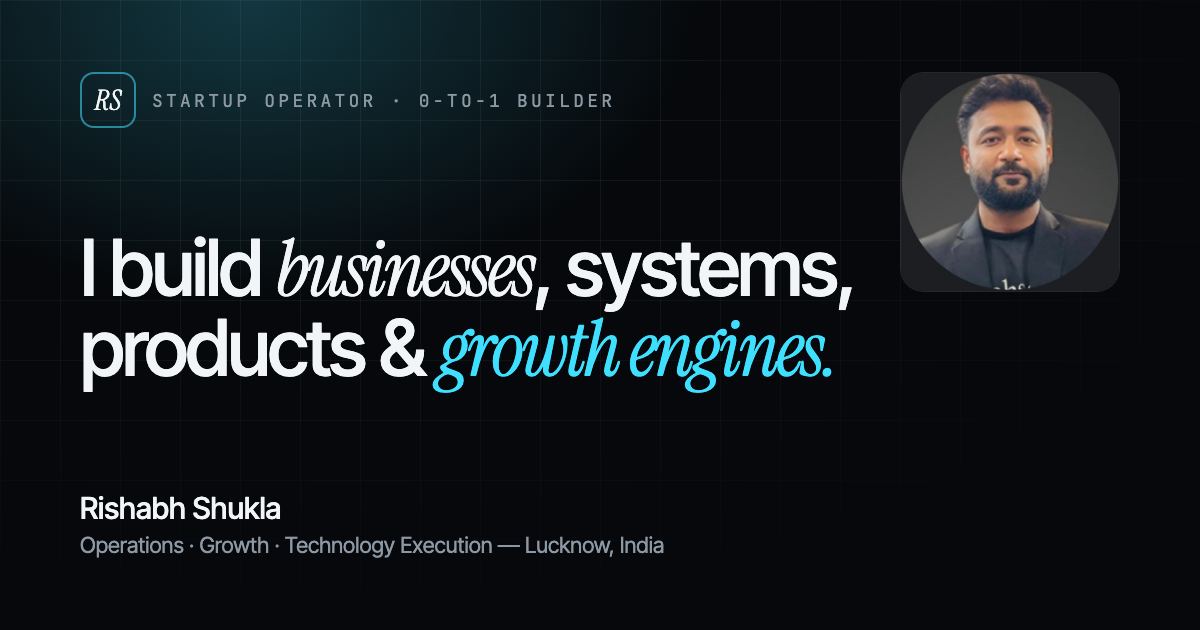
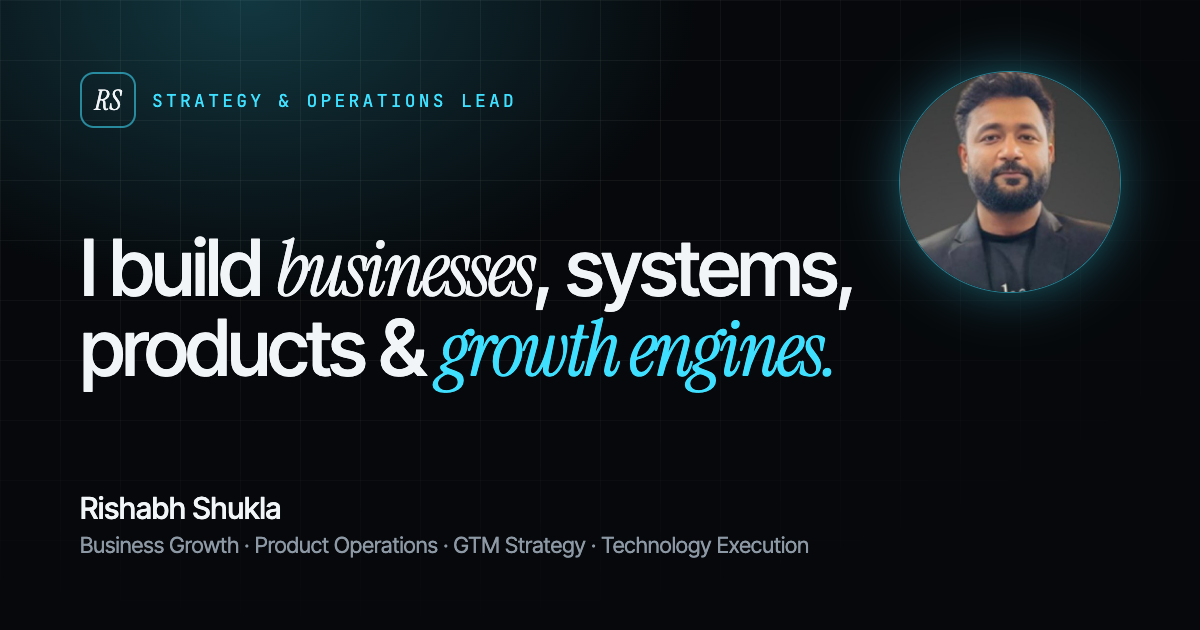
Reposition as Strategy & Operations Lead; simplify hero and About
Hero keeps only name, designation, headline, a two-line intro, focus
areas, CTAs and the portrait card. About is cut to three short
paragraphs, focus areas, education and four How I Think & Work cards.
The portrait is a shared component used in the hero and contact. OG
image regenerated from scripts/og.html.

diff --git a/src/components/Hero.tsx b/src/components/Hero.tsx
@@ -1,92 +1,65 @@
 "use client";
 
-import Image from "next/image";
 import { motion } from "framer-motion";
 import { ArrowDown, Download, MapPin } from "lucide-react";
 import { asset, site } from "@/lib/site";
 import { GitHubIcon, LinkedInIcon } from "./icons";
+import { Portrait } from "./Portrait";
 
 const ease = [0.22, 1, 0.36, 1] as const;
 
-const facts = [
-  { value: "0 → 1", label: "Led MechServi from concept to live operations" },
-  { value: "3+ yrs", label: "Running startup operations and growth" },
-  { value: "6", label: "Sectors consulted, from automotive to education" },
-  { value: "1.94×", label: "ROAS on an e-commerce catalogue campaign" },
-];
+const fadeUp = (delay: number) => ({
+  initial: { opacity: 0, y: 18 },
+  animate: { opacity: 1, y: 0 },
+  transition: { duration: 0.8, delay, ease },
+});
 
 export function Hero() {
   return (
-    <section id="home" className="noise relative overflow-hidden pt-28 md:pt-36">
+    <section id="home" className="noise relative flex min-h-[100svh] items-center overflow-hidden pb-20 pt-28 md:pt-32">
       <div className="bg-grid pointer-events-none absolute inset-0" aria-hidden />
       <div className="glow-cyan pointer-events-none absolute -top-40 left-1/2 h-[640px] w-[900px] -translate-x-1/2" aria-hidden />
 
-      <div className="relative mx-auto grid max-w-7xl gap-14 px-5 md:px-8 lg:grid-cols-[1.35fr_0.65fr] lg:items-end">
+      <div className="relative mx-auto grid w-full max-w-7xl items-center gap-14 px-5 md:px-8 lg:grid-cols-[1.25fr_0.75fr] lg:gap-20">
         <div>
           <motion.p
-            initial={{ opacity: 0, y: 12 }}
-            animate={{ opacity: 1, y: 0 }}
-            transition={{ duration: 0.6, ease }}
-            className="inline-flex items-center gap-2 rounded-full border border-line bg-white/[0.03] px-3 py-1.5 font-mono text-[11px] uppercase tracking-[0.18em] text-muted"
+            {...fadeUp(0)}
+            className="inline-flex items-center gap-2 rounded-full border border-line bg-white/[0.03] px-3 py-1.5 font-mono text-[11px] uppercase tracking-[0.16em] text-muted"
           >
             <span className="relative flex size-2">
               <span className="absolute inline-flex size-full animate-ping rounded-full bg-live opacity-60" />
               <span className="relative inline-flex size-2 rounded-full bg-live" />
             </span>
-            Open to Founder&apos;s Office, Ops &amp; Growth roles
+            Open to Strategy &amp; Operations roles
           </motion.p>
 
-          <motion.p
-            initial={{ opacity: 0, y: 16 }}
-            animate={{ opacity: 1, y: 0 }}
-            transition={{ duration: 0.7, delay: 0.08, ease }}
-            className="mt-8 text-lg font-medium tracking-tight text-fg md:text-xl"
-          >
-            Rishabh Shukla
-          </motion.p>
+          <motion.div {...fadeUp(0.08)} className="mt-8">
+            <p className="text-xl font-medium tracking-tight text-fg md:text-2xl">Rishabh Shukla</p>
+            <p className="mt-1 font-mono text-xs uppercase tracking-[0.22em] text-cyan">{site.designation}</p>
+          </motion.div>
 
           <motion.h1
-            initial={{ opacity: 0, y: 24 }}
-            animate={{ opacity: 1, y: 0 }}
-            transition={{ duration: 0.9, delay: 0.14, ease }}
-            className="text-gradient mt-3 text-[2.75rem] font-medium leading-[0.98] tracking-[-0.035em] sm:text-6xl md:text-7xl xl:text-[5.6rem]"
+            {...fadeUp(0.14)}
+            className="text-gradient mt-6 text-[2.6rem] font-medium leading-[1] tracking-[-0.035em] sm:text-6xl xl:text-7xl"
           >
             I build <span className="font-serif font-normal italic text-fg">businesses</span>, systems, products &amp;{" "}
             <span className="font-serif font-normal italic text-cyan [-webkit-text-fill-color:currentColor]">growth engines.</span>
           </motion.h1>
 
-          <motion.p
-            initial={{ opacity: 0, y: 16 }}
-            animate={{ opacity: 1, y: 0 }}
-            transition={{ duration: 0.8, delay: 0.24, ease }}
-            className="mt-8 max-w-2xl text-lg leading-relaxed text-muted md:text-xl"
-          >
-            Startup operator from Lucknow. For three years I&apos;ve run operations and growth at{" "}
-            <span className="text-fg">MechServi</span>, a doorstep vehicle-service startup, taking it from concept to live
-            operations. I turn business models into SOPs, acquisition funnels and shipped products.
+          <motion.p {...fadeUp(0.22)} className="mt-7 max-w-xl text-lg leading-relaxed text-muted">
+            3+ years of startup execution, from launching a doorstep vehicle-service business to building GTM, growth and
+            product systems for early-stage teams.
           </motion.p>
 
-          <motion.ul
-            initial={{ opacity: 0 }}
-            animate={{ opacity: 1 }}
-            transition={{ duration: 0.8, delay: 0.3 }}
-            className="mt-6 flex flex-wrap gap-x-3 gap-y-2 font-mono text-xs text-dim"
-            aria-label="Positioning"
-          >
-            {site.positioning.map((p, i) => (
-              <li key={p} className="flex items-center gap-3">
-                {i > 0 && <span className="text-cyan/60">/</span>}
+          <motion.ul {...fadeUp(0.28)} className="mt-6 flex flex-wrap gap-2" aria-label="Focus areas">
+            {site.positioning.map((p) => (
+              <li key={p} className="rounded-full border border-line px-3 py-1 font-mono text-[11px] text-fg/80">
                 {p}
               </li>
             ))}
           </motion.ul>
 
-          <motion.div
-            initial={{ opacity: 0, y: 16 }}
-            animate={{ opacity: 1, y: 0 }}
-            transition={{ duration: 0.8, delay: 0.36, ease }}
-            className="mt-10 flex flex-wrap items-center gap-3"
-          >
+          <motion.div {...fadeUp(0.34)} className="mt-10 flex flex-wrap items-center gap-3">
             <a
               href="#projects"
               className="group inline-flex items-center gap-2 rounded-full bg-cyan px-6 py-3.5 text-sm font-semibold text-ink shadow-[0_0_40px_-8px_#3fe0ff] transition hover:bg-white"
@@ -102,7 +75,7 @@ export function Hero() {
               <Download className="size-4" aria-hidden />
               Download resume
             </a>
-            <div className="ml-1 flex items-center gap-2">
+            <div className="flex items-center gap-2 sm:ml-1">
               <a
                 href={site.linkedin}
                 target="_blank"
@@ -129,54 +102,21 @@ export function Hero() {
           initial={{ opacity: 0, scale: 0.96 }}
           animate={{ opacity: 1, scale: 1 }}
           transition={{ duration: 1, delay: 0.2, ease }}
-          className="relative mx-auto w-full max-w-sm lg:mx-0"
+          className="mx-auto w-full max-w-[290px] sm:max-w-[360px] lg:mx-0 lg:justify-self-end"
         >
-          <div className="relative overflow-hidden rounded-[28px] border border-line bg-panel p-3">
-            <div className="relative grid aspect-square place-items-center overflow-hidden rounded-[20px] bg-[radial-gradient(circle_at_50%_40%,rgba(63,224,255,0.14),transparent_65%)]">
-              <div className="relative size-[86%] overflow-hidden rounded-full ring-1 ring-cyan/40 shadow-[0_0_60px_-10px_rgba(63,224,255,0.45)]">
-                <Image
-                  src={asset("/rishabh-shukla.jpg")}
-                  alt="Portrait of Rishabh Shukla"
-                  fill
-                  priority
-                  sizes="(min-width: 1024px) 330px, 80vw"
-                  className="scale-[1.04] object-cover"
-                />
-              </div>
+          <div className="rounded-[28px] border border-line bg-panel/80 p-3 backdrop-blur">
+            <div className="grid aspect-square place-items-center rounded-[20px] bg-[radial-gradient(circle_at_50%_40%,rgba(63,224,255,0.14),transparent_65%)]">
+              <Portrait priority className="w-[84%]" sizes="(min-width: 1024px) 300px, 70vw" />
             </div>
-            <div className="flex items-center justify-between gap-4 px-2 pb-1 pt-4">
-              <div>
-                <p className="text-sm font-medium">Startup Operations &amp; Growth Lead</p>
-                <p className="mt-0.5 text-xs text-muted">MechServi · 2023 — Present</p>
-              </div>
-              <span className="font-mono text-[10px] uppercase tracking-widest text-cyan">Now</span>
+            <div className="px-2 pb-1 pt-4">
+              <p className="text-sm font-medium">{site.designation}</p>
+              <p className="mt-1 flex items-center gap-1.5 text-xs text-muted">
+                <MapPin className="size-3.5 text-cyan" aria-hidden />
+                Lucknow, India · Open to Delhi NCR &amp; Remote
+              </p>
             </div>
           </div>
-          <p className="mt-4 flex items-center gap-2 px-1 text-xs text-muted">
-            <MapPin className="size-3.5 text-cyan" aria-hidden />
-            {site.location} · Delhi NCR · Remote
-          </p>
         </motion.div>
-      </div>
-
-      <div className="relative mx-auto mt-20 max-w-7xl px-5 md:mt-28 md:px-8">
-        <dl className="grid grid-cols-2 border-y border-line md:grid-cols-4">
-          {facts.map((f, i) => (
-            <motion.div
-              key={f.label}
-              initial={{ opacity: 0, y: 12 }}
-              animate={{ opacity: 1, y: 0 }}
-              transition={{ duration: 0.6, delay: 0.5 + i * 0.08, ease }}
-              className={`py-7 pr-4 md:px-6 ${i % 2 ? "pl-4 border-l border-line" : ""} ${i > 0 ? "md:border-l md:border-line" : "md:pl-0"} ${i > 1 ? "border-t border-line md:border-t-0" : ""}`}
-            >
-              <dt className="sr-only">{f.label}</dt>
-              <dd>
-                <span className="block font-serif text-4xl italic text-fg md:text-5xl">{f.value}</span>
-                <span className="mt-2 block text-sm leading-snug text-muted">{f.label}</span>
-              </dd>
-            </motion.div>
-          ))}
-        </dl>
       </div>
     </section>
   );

diff --git a/src/components/About.tsx b/src/components/About.tsx
@@ -1,22 +1,34 @@
+import { GraduationCap } from "lucide-react";
 import { Reveal, SectionHeading } from "./ui";
 
 const principles = [
   {
-    title: "Business model first",
-    body: "Pricing, unit economics and the partner side get designed before the website does.",
+    title: "Business Before Technology",
+    body: "Understand the business model, customer problem and economics before building systems.",
   },
   {
-    title: "Systems over heroics",
-    body: "SOPs, SLAs and CRM workflows so service quality doesn't depend on one person being online.",
+    title: "Systems Over Heroics",
+    body: "Build SOPs, workflows and accountability rather than depending on individual effort.",
   },
   {
-    title: "Funnels you can measure",
-    body: "Every ad ends in a conversation and every conversation in a tracked outcome.",
+    title: "Growth With Measurement",
+    body: "Connect acquisition, conversion and retention to measurable outcomes.",
   },
   {
-    title: "Ship, then harden",
-    body: "Get a working version in front of customers, then test and fix it under real use.",
+    title: "Build, Test, Improve",
+    body: "Launch working solutions, collect feedback and improve through execution.",
   },
+];
+
+const focus = [
+  "Business Strategy & Operations",
+  "Growth & Revenue Operations",
+  "Product & Marketplace Operations",
+  "GTM Strategy",
+  "Technology Implementation",
+  "Performance Marketing",
+  "Business Development",
+  "Process Automation",
 ];
 
 export function About() {
@@ -34,42 +46,55 @@ export function About() {
           }
         />
 
-        <div className="grid gap-16 lg:grid-cols-[1.1fr_0.9fr]">
-          <Reveal className="space-y-6 text-lg leading-relaxed text-muted">
+        <div className="grid gap-12 lg:grid-cols-[1fr_1fr] lg:gap-20">
+          <Reveal className="space-y-5 text-lg leading-relaxed text-muted">
             <p>
-              <span className="text-fg">I started MechServi&apos;s operations from nothing.</span> No mechanic network, no
-              booking flow, no customers. Turning a doorstep bike and car service into something that runs every day
-              meant recruiting and onboarding partners, writing their SOPs and pricing, managing field teams and resolving
-              complaints, while also running the Meta and Google campaigns that brought customers in.
+              <span className="text-fg">I&apos;m a strategy and operations professional who builds businesses from zero.</span>{" "}
+              My work spans operations, customer acquisition, product and technology.
             </p>
             <p>
-              That experience taught me how a startup actually works end to end: how{" "}
-              <span className="text-fg">vendor supply, customer acquisition, operations and technology</span> pull on
-              each other, and how a funnel that looks good in Ads Manager can still leak at the WhatsApp reply or the
-              doorstep.
+              At MechServi, I led the 0-to-1 launch of a doorstep vehicle-service business, bringing together service
+              partners, customers, processes and technology.
             </p>
             <p>
-              Since then I&apos;ve applied the same approach for other early-stage teams: defining the commission and
-              wallet model for an influencer marketplace, planning a home-services launch in Varanasi, building growth
-              funnels and teaching a 16-session advertising course. I work hands-on with technology too. I scope,
-              direct, test and deploy web products using modern frameworks and AI-assisted development.
-            </p>
-            <p className="text-fg">
-              I&apos;m looking for a Founder&apos;s Office, Business Operations, Growth or Strategy &amp; Operations
-              role where 0-to-1 execution matters.
+              Since then I&apos;ve worked across marketplaces, home services, digital products and performance marketing,
+              turning ideas into executable systems.
             </p>
           </Reveal>
 
-          <Reveal delay={0.1} className="grid gap-px self-start overflow-hidden rounded-3xl border border-line bg-line sm:grid-cols-2">
-            {principles.map((p, i) => (
-              <div key={p.title} className="bg-ink-2 p-7">
-                <span className="font-mono text-xs text-cyan">0{i + 1}</span>
-                <h3 className="mt-5 text-lg font-medium tracking-tight">{p.title}</h3>
-                <p className="mt-2 text-sm leading-relaxed text-muted">{p.body}</p>
+          <Reveal delay={0.08}>
+            <h3 className="font-mono text-[11px] uppercase tracking-[0.24em] text-muted">Focus areas</h3>
+            <ul className="mt-4 flex flex-wrap gap-2">
+              {focus.map((f) => (
+                <li key={f} className="rounded-full border border-line bg-white/[0.02] px-3.5 py-1.5 text-sm text-fg/85">
+                  {f}
+                </li>
+              ))}
+            </ul>
+            <div className="mt-8 flex items-center gap-4 rounded-2xl border border-line bg-white/[0.015] p-4">
+              <span className="grid size-10 shrink-0 place-items-center rounded-xl border border-line bg-panel">
+                <GraduationCap className="size-4 text-cyan" aria-hidden />
+              </span>
+              <div className="min-w-0 flex-1">
+                <p className="text-sm font-medium">B.Tech, Glocal University, Saharanpur</p>
+                <p className="text-xs text-muted">2013 — 2017</p>
               </div>
-            ))}
+            </div>
           </Reveal>
         </div>
+
+        <Reveal className="mt-20">
+          <h3 className="text-2xl font-medium tracking-tight md:text-3xl">How I Think &amp; Work</h3>
+        </Reveal>
+        <Reveal delay={0.05} className="mt-8 grid gap-px overflow-hidden rounded-3xl border border-line bg-line sm:grid-cols-2 lg:grid-cols-4">
+          {principles.map((p, i) => (
+            <div key={p.title} className="group bg-ink-2 p-7 transition-colors hover:bg-panel">
+              <span className="font-mono text-xs text-cyan">0{i + 1}</span>
+              <h4 className="mt-8 text-lg font-medium leading-snug tracking-tight">{p.title}</h4>
+              <p className="mt-3 text-sm leading-relaxed text-muted">{p.body}</p>
+            </div>
+          ))}
+        </Reveal>
       </div>
     </section>
   );

diff --git a/scripts/og.html b/scripts/og.html
@@ -1,0 +1,19 @@
+<!doctype html><html><head><meta charset="utf-8">
+<!-- Source for public/og.png. Render at 1200x630 next to a copy of public/rishabh-shukla.jpg named p.jpg. -->
+<link href="https://fonts.googleapis.com/css2?family=Inter+Tight:wght@400;500&family=Instrument+Serif:ital@0;1&family=JetBrains+Mono&display=swap" rel="stylesheet">
+<style>
+*{margin:0;box-sizing:border-box}body{width:1200px;height:630px;background:#06080b;color:#f2f5f7;font-family:'Inter Tight';position:relative;overflow:hidden}
+.grid{position:absolute;inset:0;background-image:linear-gradient(to right,rgba(255,255,255,.05) 1px,transparent 1px),linear-gradient(to bottom,rgba(255,255,255,.05) 1px,transparent 1px);background-size:60px 60px;-webkit-mask-image:radial-gradient(ellipse 80% 80% at 30% 20%,#000 30%,transparent 100%)}
+.glow{position:absolute;width:900px;height:600px;left:-200px;top:-300px;background:radial-gradient(closest-side,rgba(63,224,255,.22),transparent)}
+.wrap{position:relative;padding:72px 80px;height:100%;display:flex;flex-direction:column;justify-content:space-between}
+.top{display:flex;align-items:center;gap:16px;font-family:'JetBrains Mono';font-size:18px;color:#3fe0ff;letter-spacing:.18em;text-transform:uppercase}
+.mono{width:56px;height:56px;border:2px solid rgba(63,224,255,.55);border-radius:14px;display:grid;place-items:center;font-family:'Instrument Serif';font-style:italic;font-size:28px;color:#f2f5f7;letter-spacing:0;text-transform:none}
+h1{font-weight:500;font-size:78px;line-height:1;letter-spacing:-.035em;max-width:820px}
+em{font-family:'Instrument Serif';font-weight:400}.c{color:#3fe0ff}
+.bot{font-size:22px;color:#8d98a5}.bot b{color:#f2f5f7;font-weight:500;font-size:30px;display:block;margin-bottom:6px}
+.ph{position:absolute;right:80px;top:72px;width:220px;height:220px;border-radius:50%;overflow:hidden;box-shadow:0 0 0 1px rgba(63,224,255,.45),0 0 60px -10px rgba(63,224,255,.6)}
+.ph img{width:100%;height:100%;object-fit:cover;transform:scale(1.04)}
+</style></head><body><div class="grid"></div><div class="glow"></div><div class="ph"><img src="p.jpg"></div>
+<div class="wrap"><div class="top"><span class="mono">RS</span>Strategy &amp; Operations Lead</div>
+<h1>I build <em>businesses</em>, systems, products &amp; <em class="c">growth engines.</em></h1>
+<div class="bot"><b>Rishabh Shukla</b>Business Growth · Product Operations · GTM Strategy · Technology Execution</div></div></body></html>

diff --git a/src/lib/site.ts b/src/lib/site.ts
@@ -6,15 +6,11 @@ export const asset = (path: string) => `${BASE_PATH}${path}`;
 export const site = {
   name: "Rishabh Shukla",
   url: "https://rishabh18795-rgb.github.io/rishabh-shukla-portfolio",
-  title: "Rishabh Shukla — Startup Operator, 0-to-1 Builder & Growth Strategist",
+  title: "Rishabh Shukla — Strategy & Operations Lead",
   description:
-    "Rishabh Shukla is a startup operations and growth professional from Lucknow, India. He took MechServi from concept to live operations and works with early-stage teams on marketplaces, growth funnels, WhatsApp automation and product delivery.",
-  positioning: [
-    "Startup Operator",
-    "0-to-1 Builder",
-    "Growth Strategist",
-    "Business Operations & Technology Execution",
-  ],
+    "Rishabh Shukla is a strategy and operations professional from Lucknow, India, with 3+ years of startup execution across business growth, product and marketplace operations, GTM strategy and technology implementation.",
+  designation: "Strategy & Operations Lead",
+  positioning: ["Business Growth", "Product Operations", "GTM Strategy", "Technology Execution"],
   location: "Lucknow, Uttar Pradesh, India",
   availability: "Open to Delhi NCR (Gurgaon / Noida) and Remote",
   email: "rishabh18795@gmail.com",
@@ -32,8 +28,8 @@ export const site = {
 export const navItems = [
   { id: "home", label: "Home" },
   { id: "about", label: "About" },
+  { id: "skills", label: "Skills" },
   { id: "experience", label: "Experience" },
   { id: "projects", label: "Projects" },
-  { id: "skills", label: "Skills" },
   { id: "contact", label: "Contact" },
 ] as const;

diff --git a/src/components/Portrait.tsx b/src/components/Portrait.tsx
@@ -1,0 +1,28 @@
+import Image from "next/image";
+import { asset } from "@/lib/site";
+
+/** The one authentic profile photograph, cropped to a circle with a cyan ring. */
+export function Portrait({
+  className = "",
+  sizes = "300px",
+  priority = false,
+}: {
+  className?: string;
+  sizes?: string;
+  priority?: boolean;
+}) {
+  return (
+    <div
+      className={`relative aspect-square overflow-hidden rounded-full ring-1 ring-cyan/40 shadow-[0_0_60px_-12px_rgba(63,224,255,0.5)] ${className}`}
+    >
+      <Image
+        src={asset("/rishabh-shukla.jpg")}
+        alt="Portrait of Rishabh Shukla"
+        fill
+        priority={priority}
+        sizes={sizes}
+        className="scale-[1.04] object-cover"
+      />
+    </div>
+  );
+}
